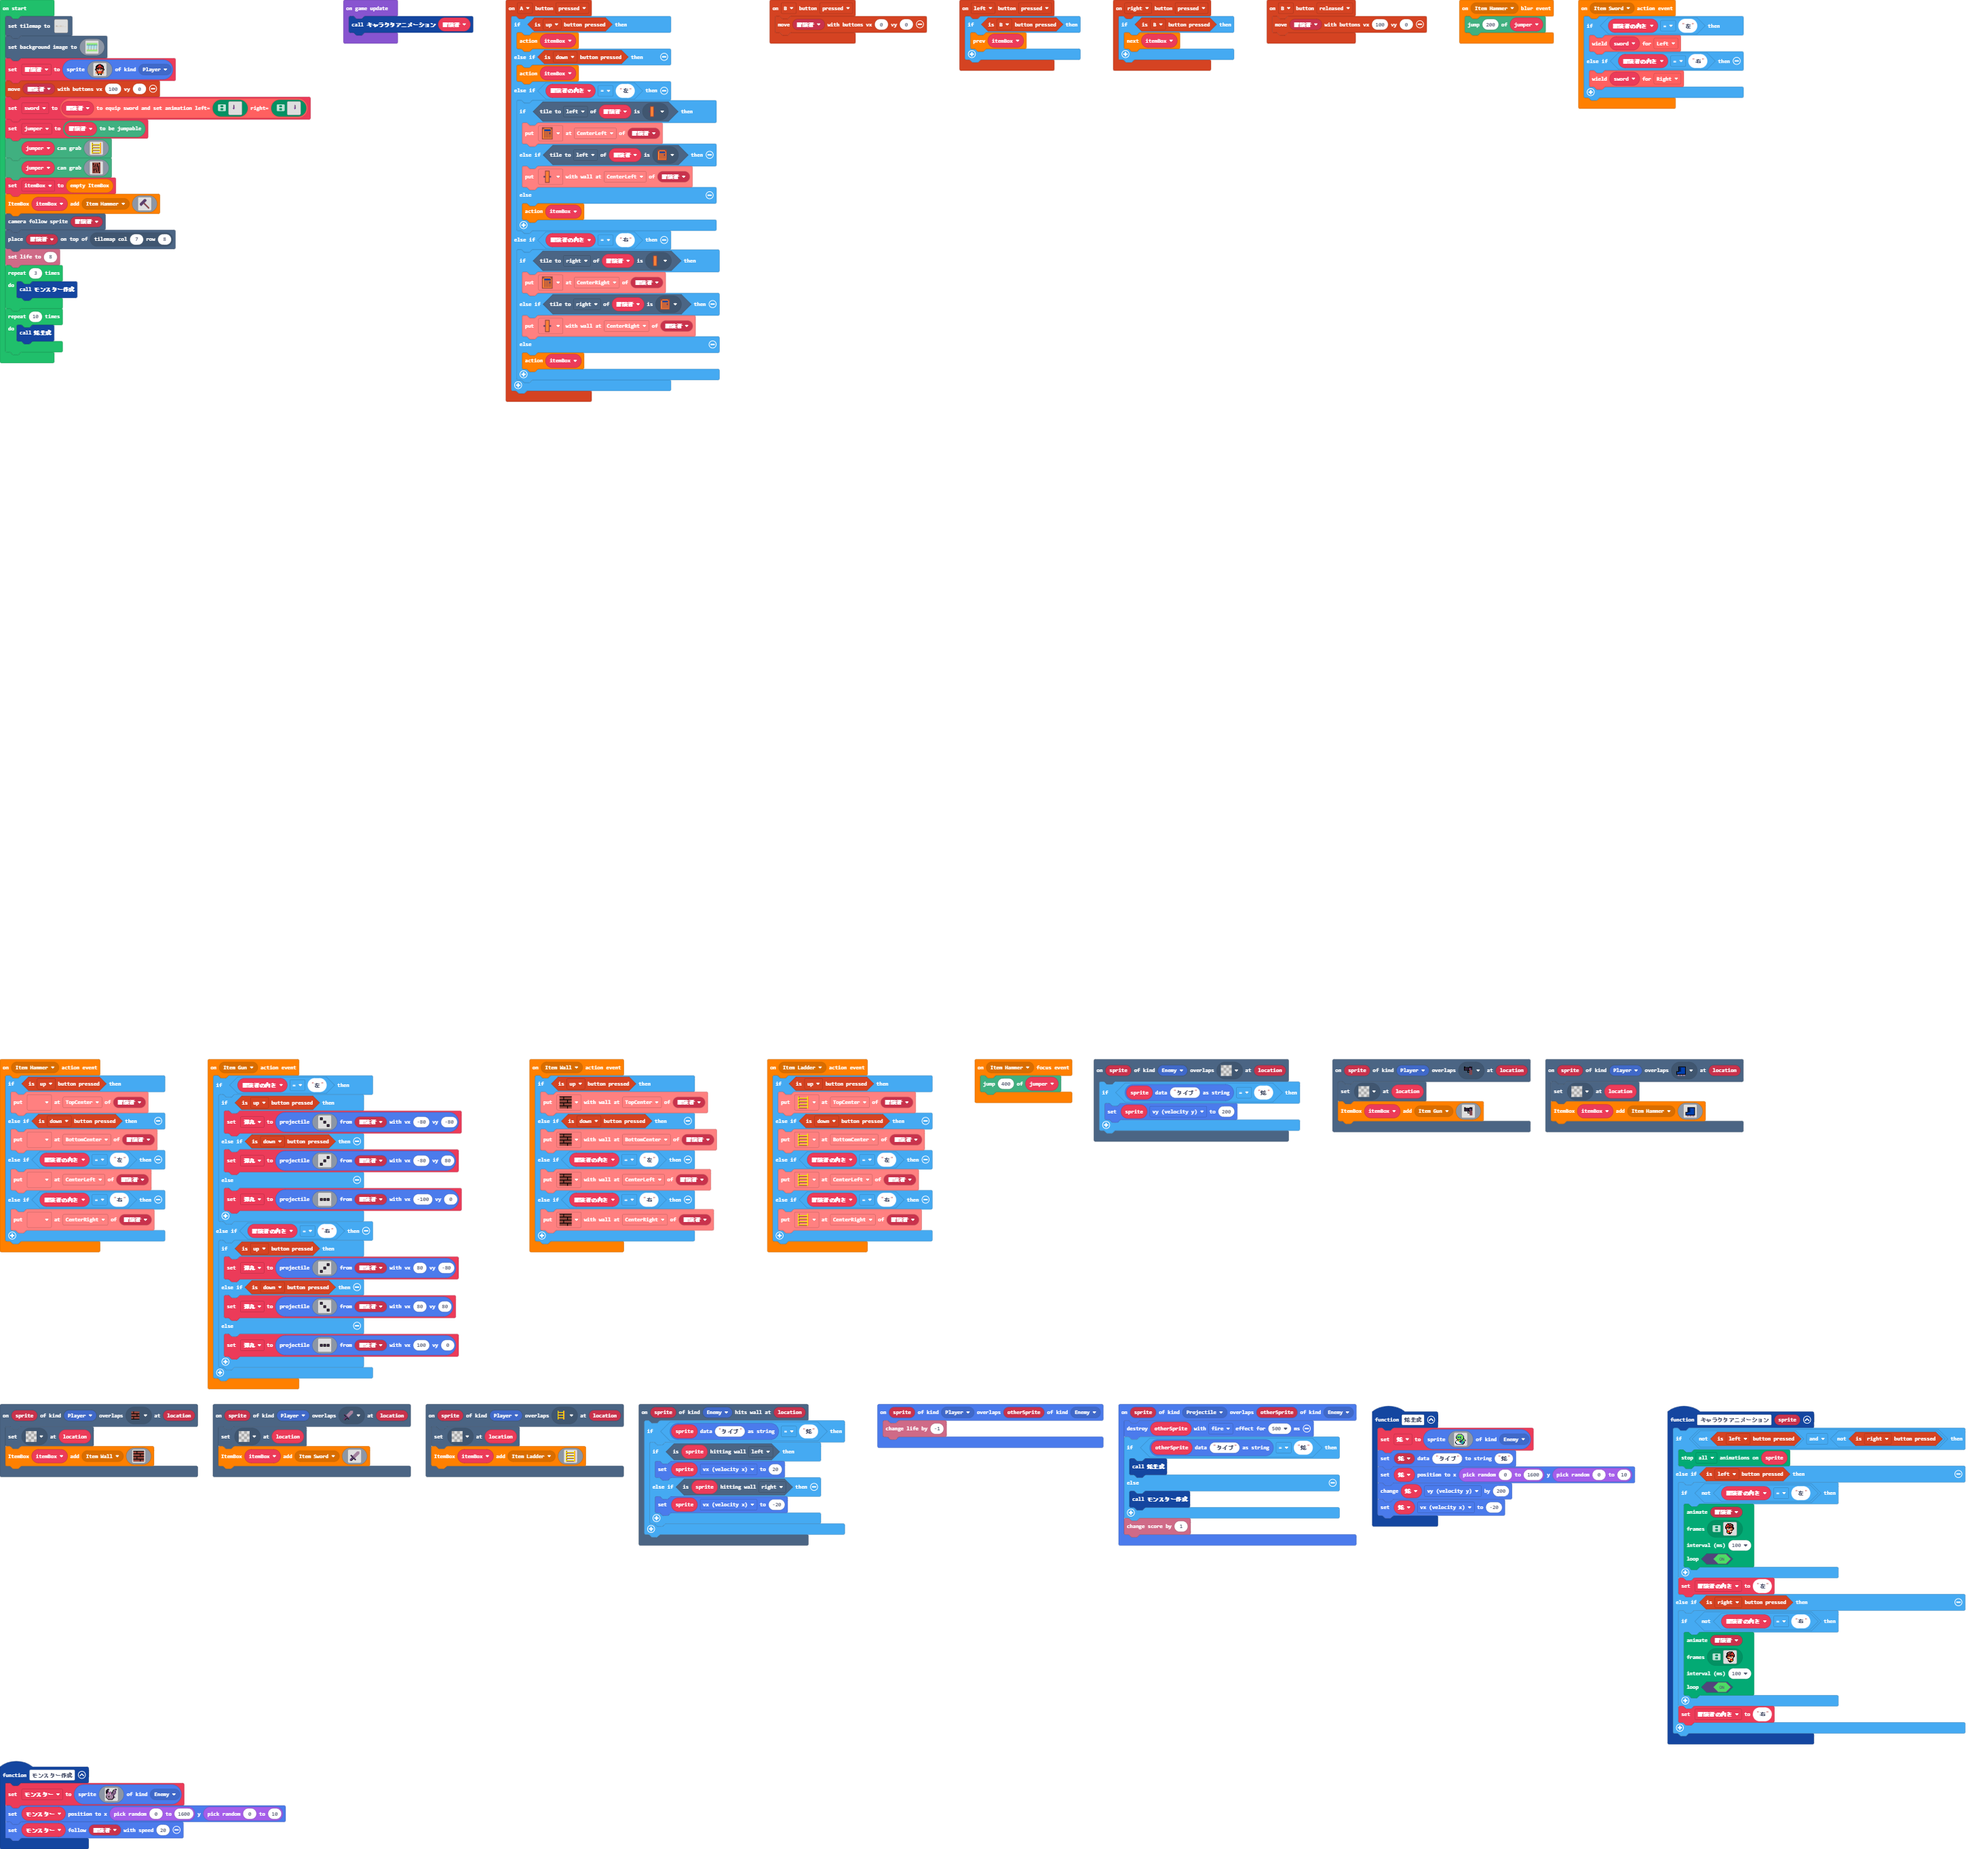
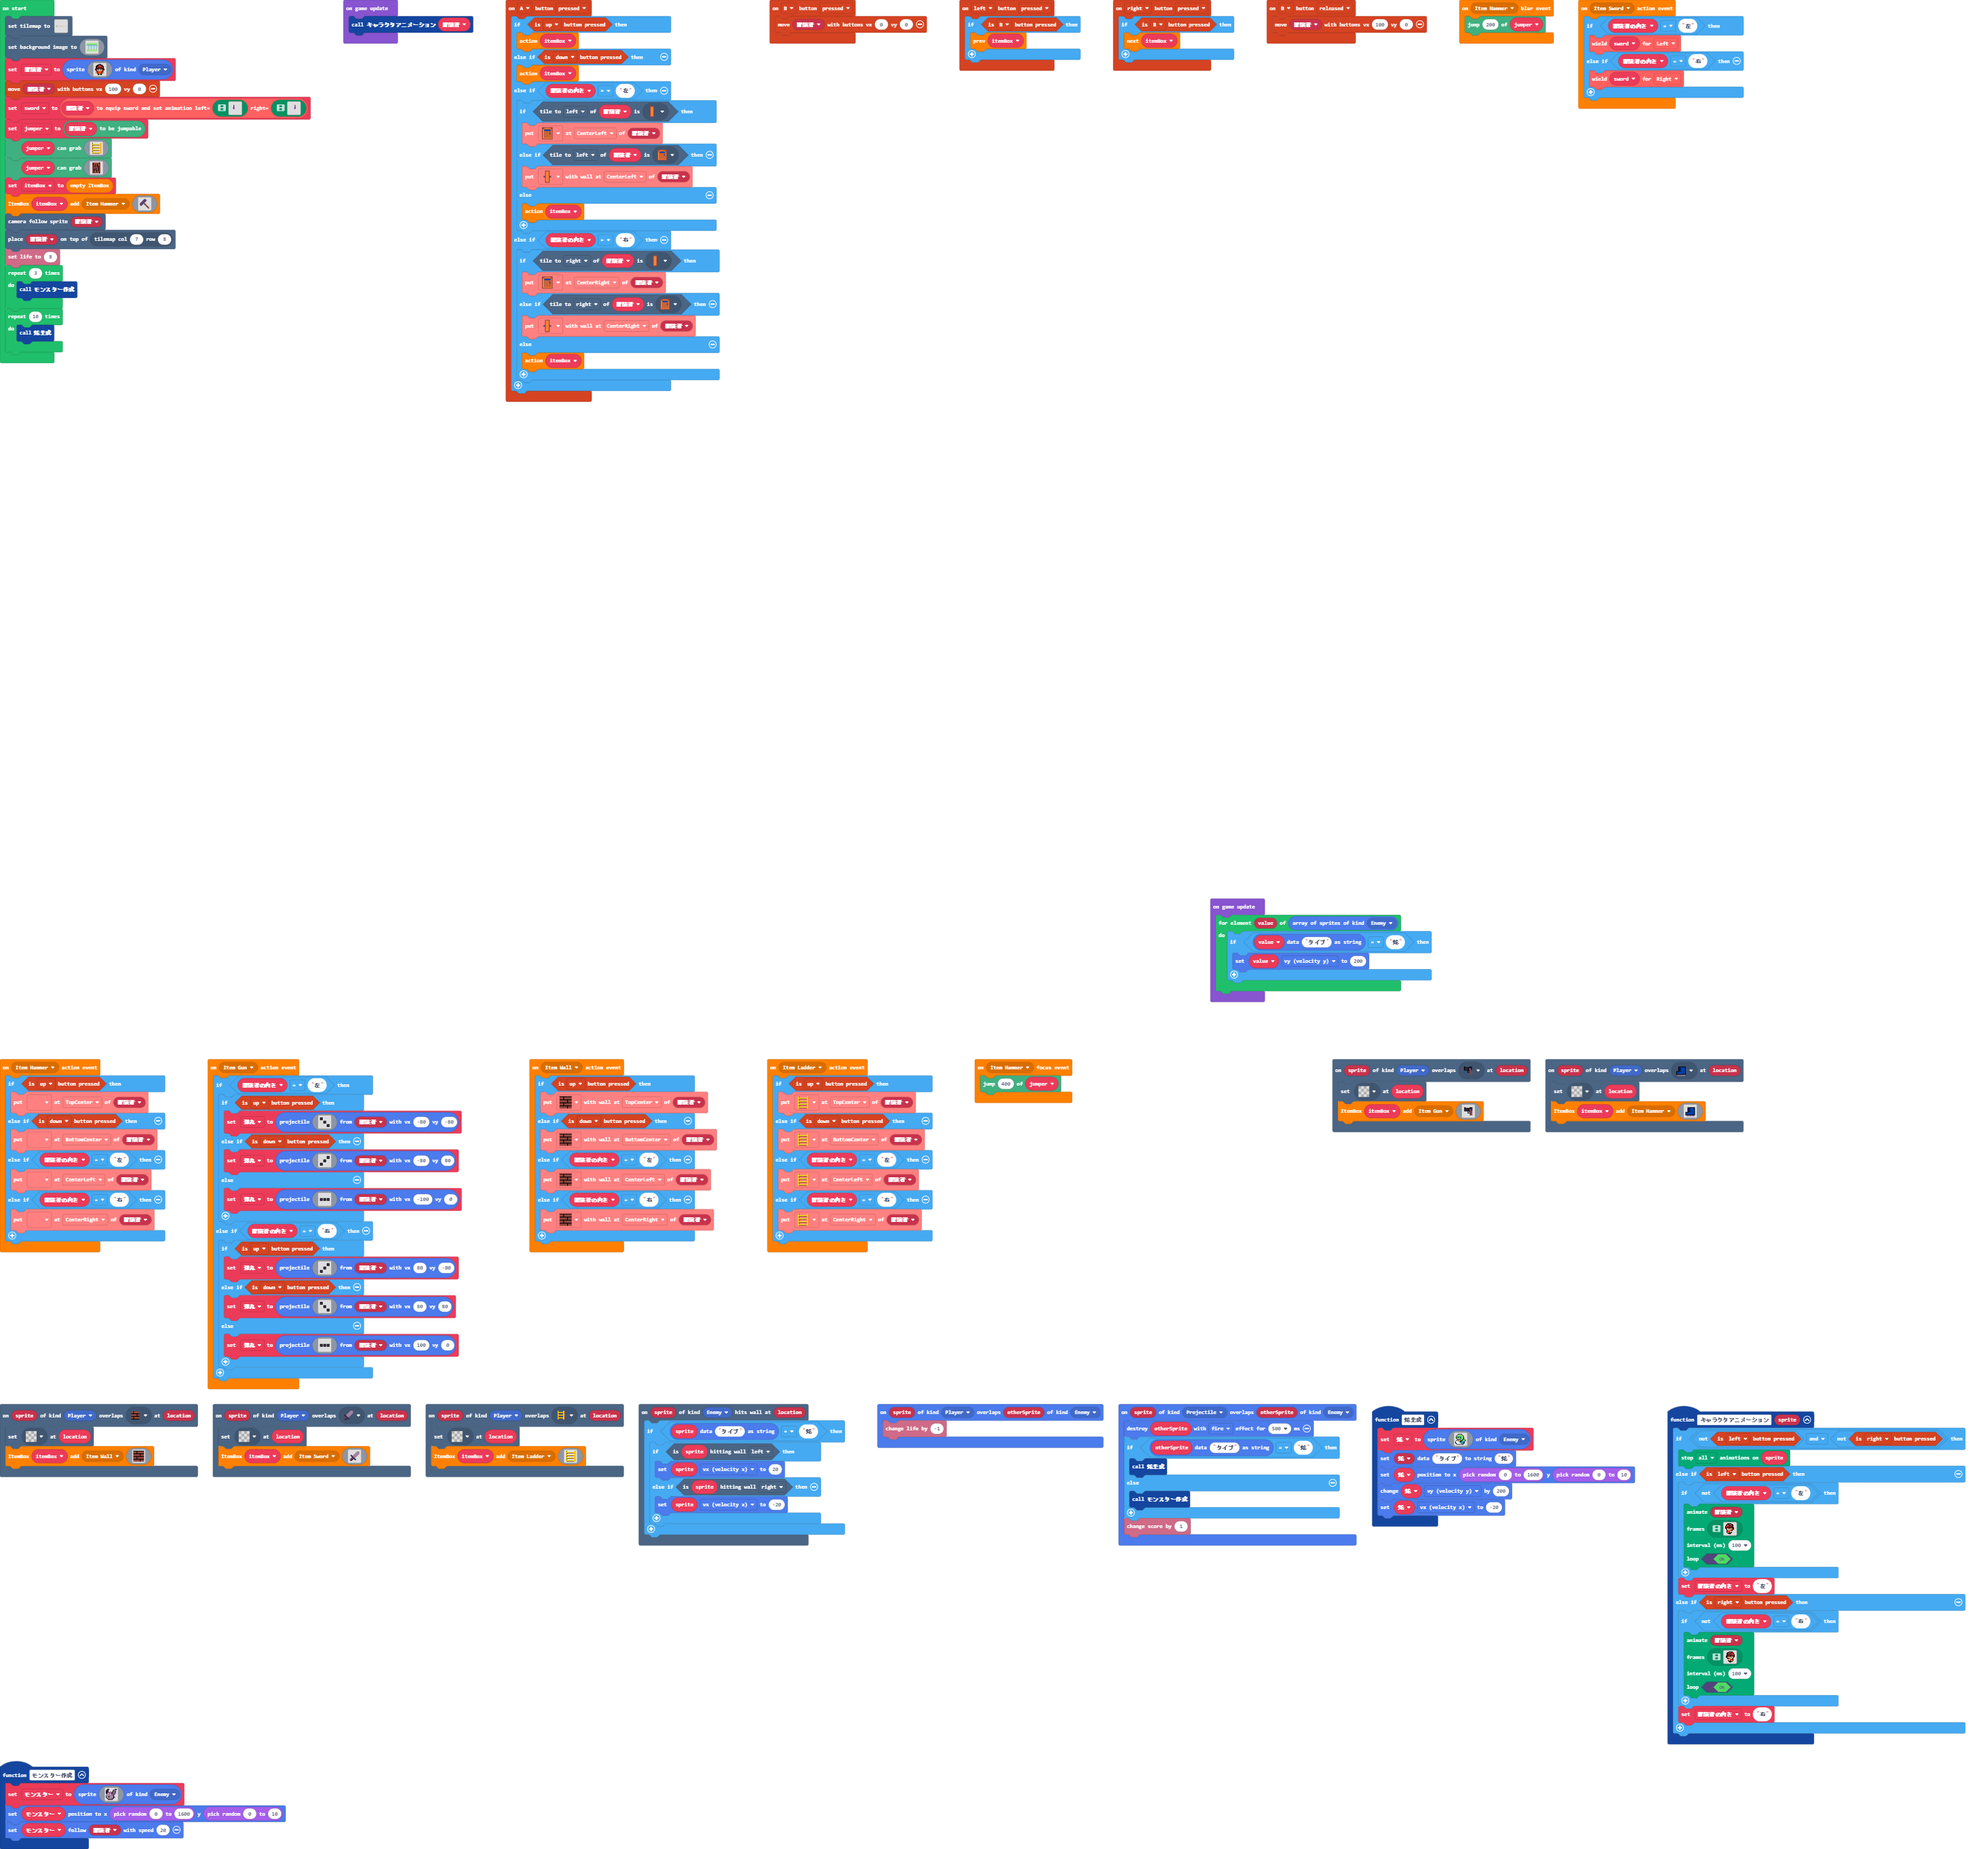
Update main.blocks, main.ts, tilemap.g.jres, tilemap.g.ts

Changed region(s): [[0.5293, 0.4679, 0.7472, 0.6239]]

diff --git a/tilemap.g.ts b/tilemap.g.ts
@@ -46,6 +46,25 @@ namespace myTiles {
 2222222222222222222222222222222222222222222222222222222222222222222222222222222222222222222222222222
 2222222222222222222222222222222222222222222222222222222222222222222222222222222222222222222222222222
 `, [myTiles.transparency16,sprites.castle.tilePath5,sprites.castle.tilePath2,sprites.castle.tilePath1,sprites.castle.tilePath3,sprites.castle.tilePath6,sprites.castle.tilePath8,sprites.castle.tilePath9,myTiles.tile2,myTiles.tile1,myTiles.tile3,sprites.builtin.forestTiles0,myTiles.tile4,myTiles.tile6,myTiles.tile7,myTiles.tile8,myTiles.tile9,myTiles.tile10,myTiles.tile11], TileScale.Sixteen);
+            case "level2":
+            case "level2":return tiles.createTilemap(hex`1000100000000000000000000000000000000000000000000000000000000000000000000000000000000000000000000000000000000000000000000000000000000000000000000000000000000000000000000000000000000000000000000000000000000000000000000000000000000000000000000000000000000000000000000000000000000000000000000000000000000000000000000000000000000000000000000000000000000000000000000000000000000000000000000000000000000000000000000000000000000000000000000000000000000000000000000000000000000000000000000000000000000000000000000000000000000000`, img`
+. . . . . . . . . . . . . . . . 
+. . . . . . . . . . . . . . . . 
+. . . . . . . . . . . . . . . . 
+. . . . . . . . . . . . . . . . 
+. . . . . . . . . . . . . . . . 
+. . . . . . . . . . . . . . . . 
+. . . . . . . . . . . . . . . . 
+. . . . . . . . . . . . . . . . 
+. . . . . . . . . . . . . . . . 
+. . . . . . . . . . . . . . . . 
+. . . . . . . . . . . . . . . . 
+. . . . . . . . . . . . . . . . 
+. . . . . . . . . . . . . . . . 
+. . . . . . . . . . . . . . . . 
+. . . . . . . . . . . . . . . . 
+. . . . . . . . . . . . . . . . 
+`, [myTiles.transparency16], TileScale.Sixteen);
         }
         return null;
     })

diff --git a/main.ts b/main.ts
@@ -142,11 +142,6 @@ scene.onOverlapTile(SpriteKind.Player, assets.tile`ladder`, function (sprite, lo
 controller.B.onEvent(ControllerButtonEvent.Released, function () {
     controller.moveSprite(冒険者, 100, 0)
 })
-scene.onOverlapTile(SpriteKind.Enemy, assets.tile`transparency16`, function (sprite, location) {
-    if (sprites.readDataString(sprite, "タイプ") == "蛇") {
-        sprite.vy = 200
-    }
-})
 itembox.util.onBlur(ItemKind.JumpBoots, function () {
     jumper.setSpeed(200)
 })
@@ -516,4 +511,11 @@ for (let index = 0; index < 10; index++) {
 }
 game.onUpdate(function () {
     キャラクタアニメーション(冒険者)
+})
+game.onUpdate(function () {
+    for (let value of sprites.allOfKind(SpriteKind.Enemy)) {
+        if (sprites.readDataString(value, "タイプ") == "蛇") {
+            value.vy = 200
+        }
+    }
 })
